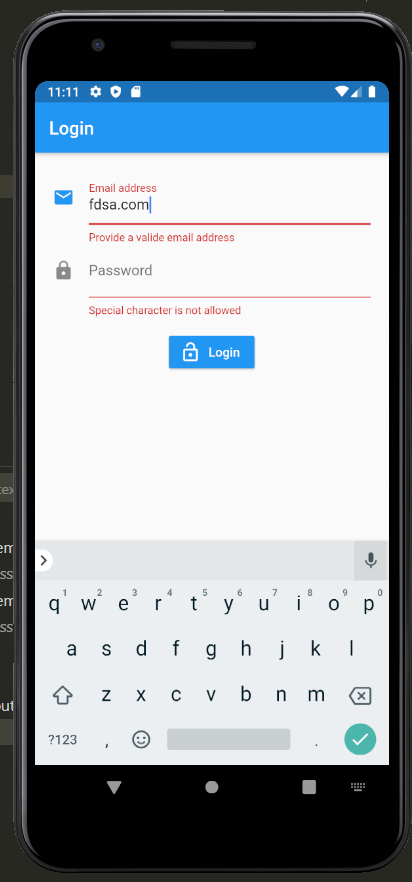
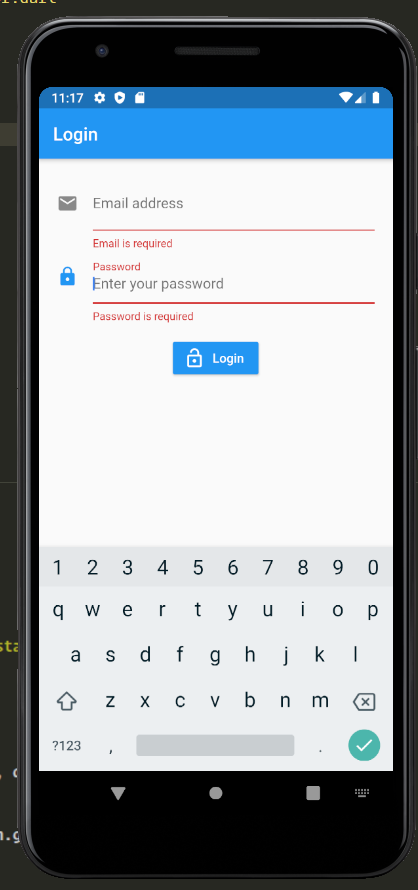
more validation rules

diff --git a/lib/src/mixins/ValidaorMixin.dart b/lib/src/mixins/ValidaorMixin.dart
@@ -3,12 +3,22 @@ import 'package:string_validator/string_validator.dart'
 
 class ValidatorMixin {
   String emailValidator(String input) {
+    if (input.length == 0) {
+      return "Email is required";
+    }
     if (!isEmail(input)) {
       return "Provide a valide email address";
     }
   }
 
   String passwordValidator(String input) {
+    if (input.length == 0) {
+      return "Password is required";
+    }
+
+    if (input.length > 0 && input.length < 6)
+      return "Give at least 5 characters";
+
     if (!isAlphanumeric(input.trim())) {
       return "Special character is not allowed";
     }

diff --git a/README.md b/README.md
@@ -2,3 +2,6 @@
 
 ![](ss/ss1.png)
 ![](ss/ss2.png)
+![](ss/ss3.png)
+![](ss/ss4.png)
+![](ss/ss5.png)
